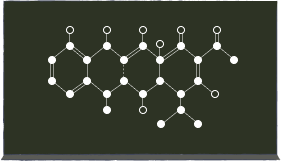
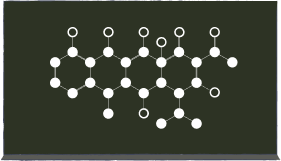
#42 - Styles changed

Changed region(s): [[0.1708, 0.1553, 0.8541, 0.8075]]

diff --git a/src/configs/scenes.js b/src/configs/scenes.js
@@ -1131,10 +1131,10 @@ const SCENES = [
             },
           },
           position: {
-            x: 50,
-            y: 132,
-            width: 40,
-            height: 60,
+            x: 40,
+            y: 115,
+            width: 55,
+            height: 80,
             zIndex: 1,
           },
         },
@@ -1181,10 +1181,10 @@ const SCENES = [
             },
           },
           position: {
-            x: 135,
-            y: 135,
-            width: 40,
-            height: 60,
+            x: 128,
+            y: 118,
+            width: 50,
+            height: 80,
             zIndex: 1,
           },
         },
@@ -1231,10 +1231,10 @@ const SCENES = [
             },
           },
           position: {
-            x: 220,
-            y: 131,
-            width: 40,
-            height: 60,
+            x: 210,
+            y: 115,
+            width: 55,
+            height: 80,
             zIndex: 1,
           },
         },
